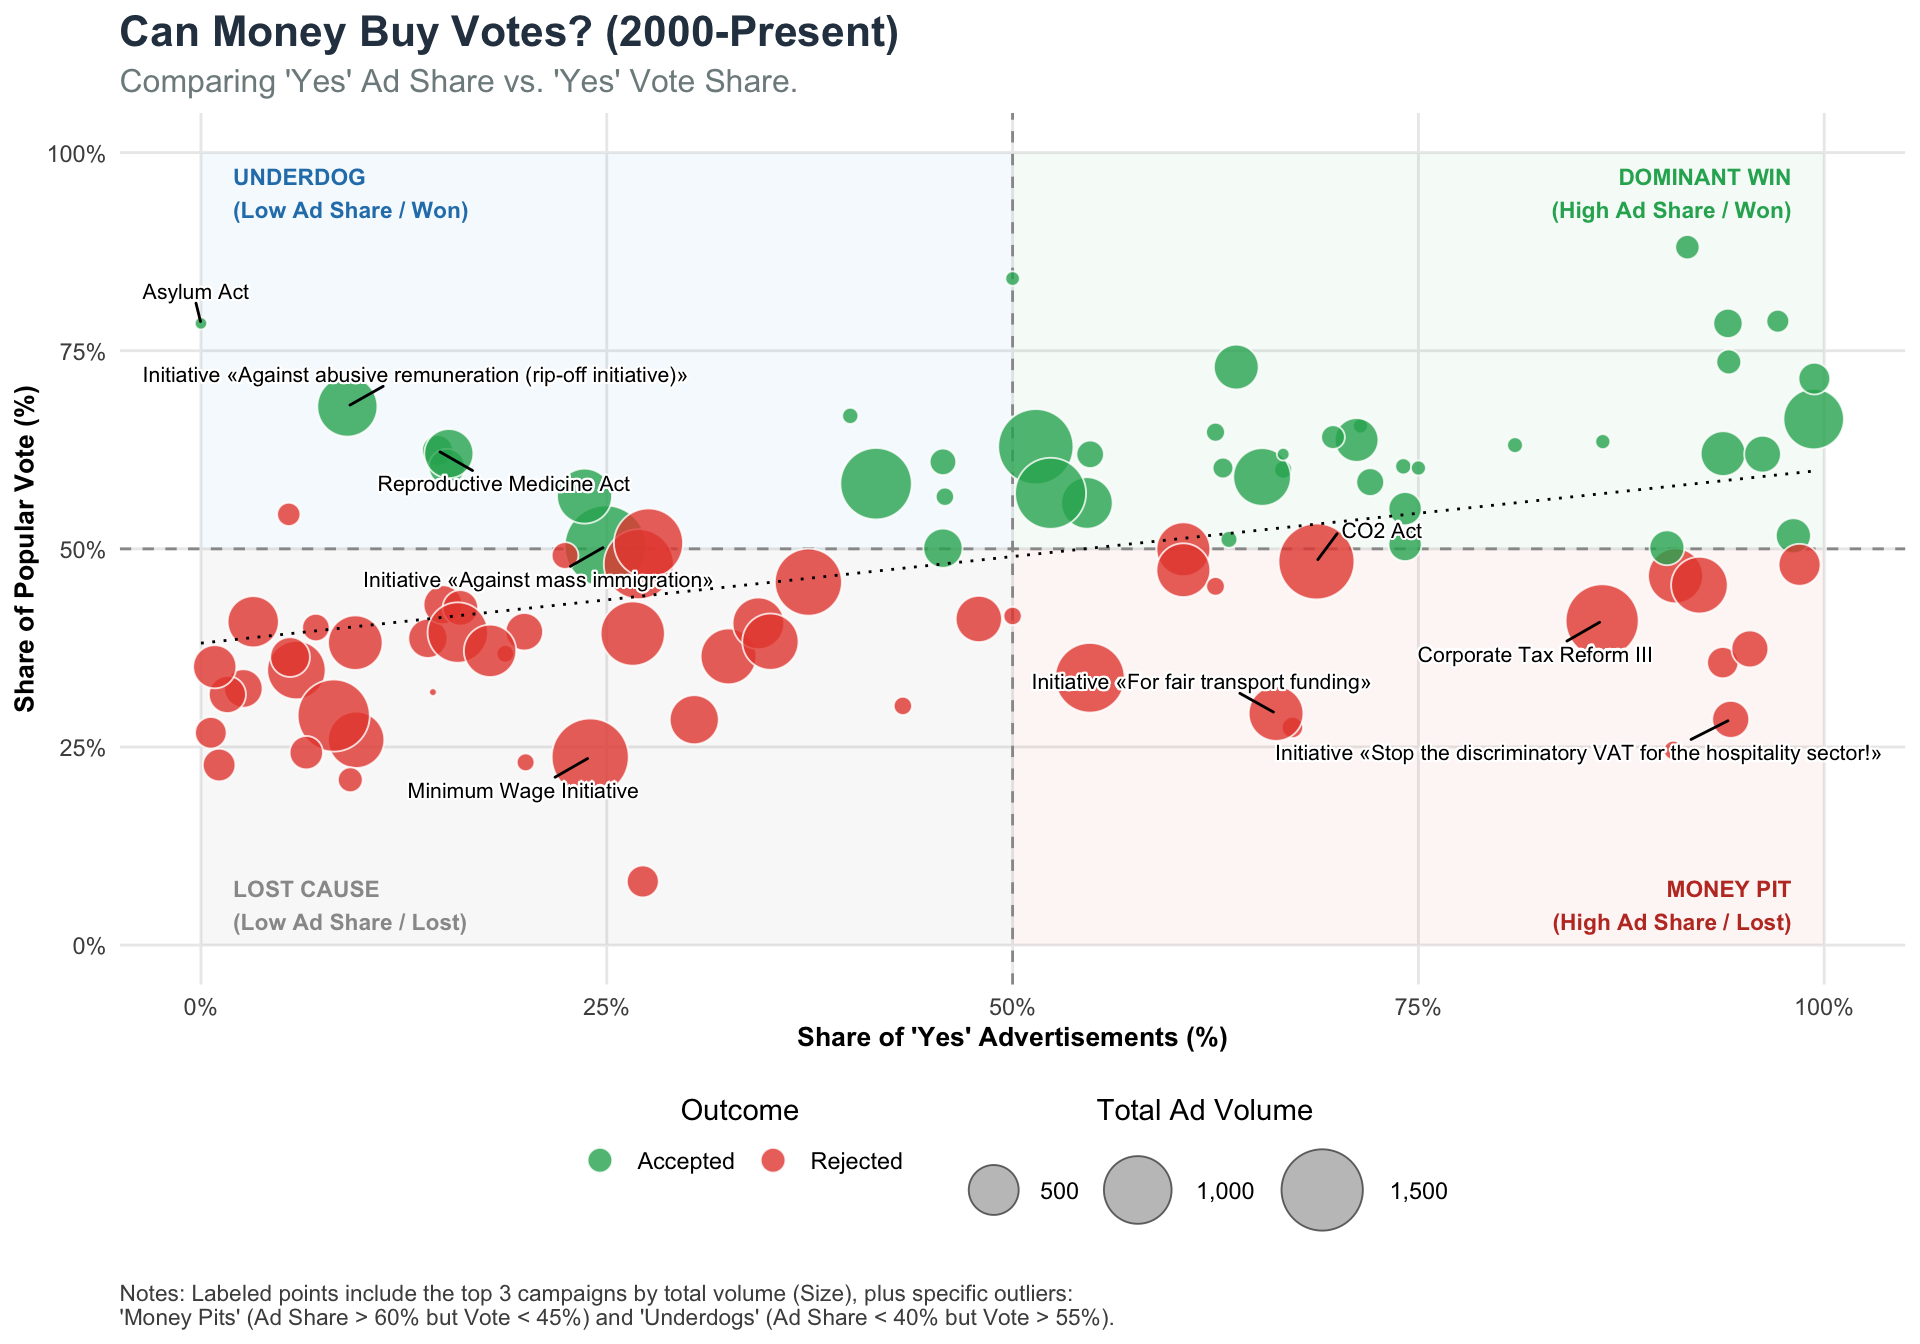
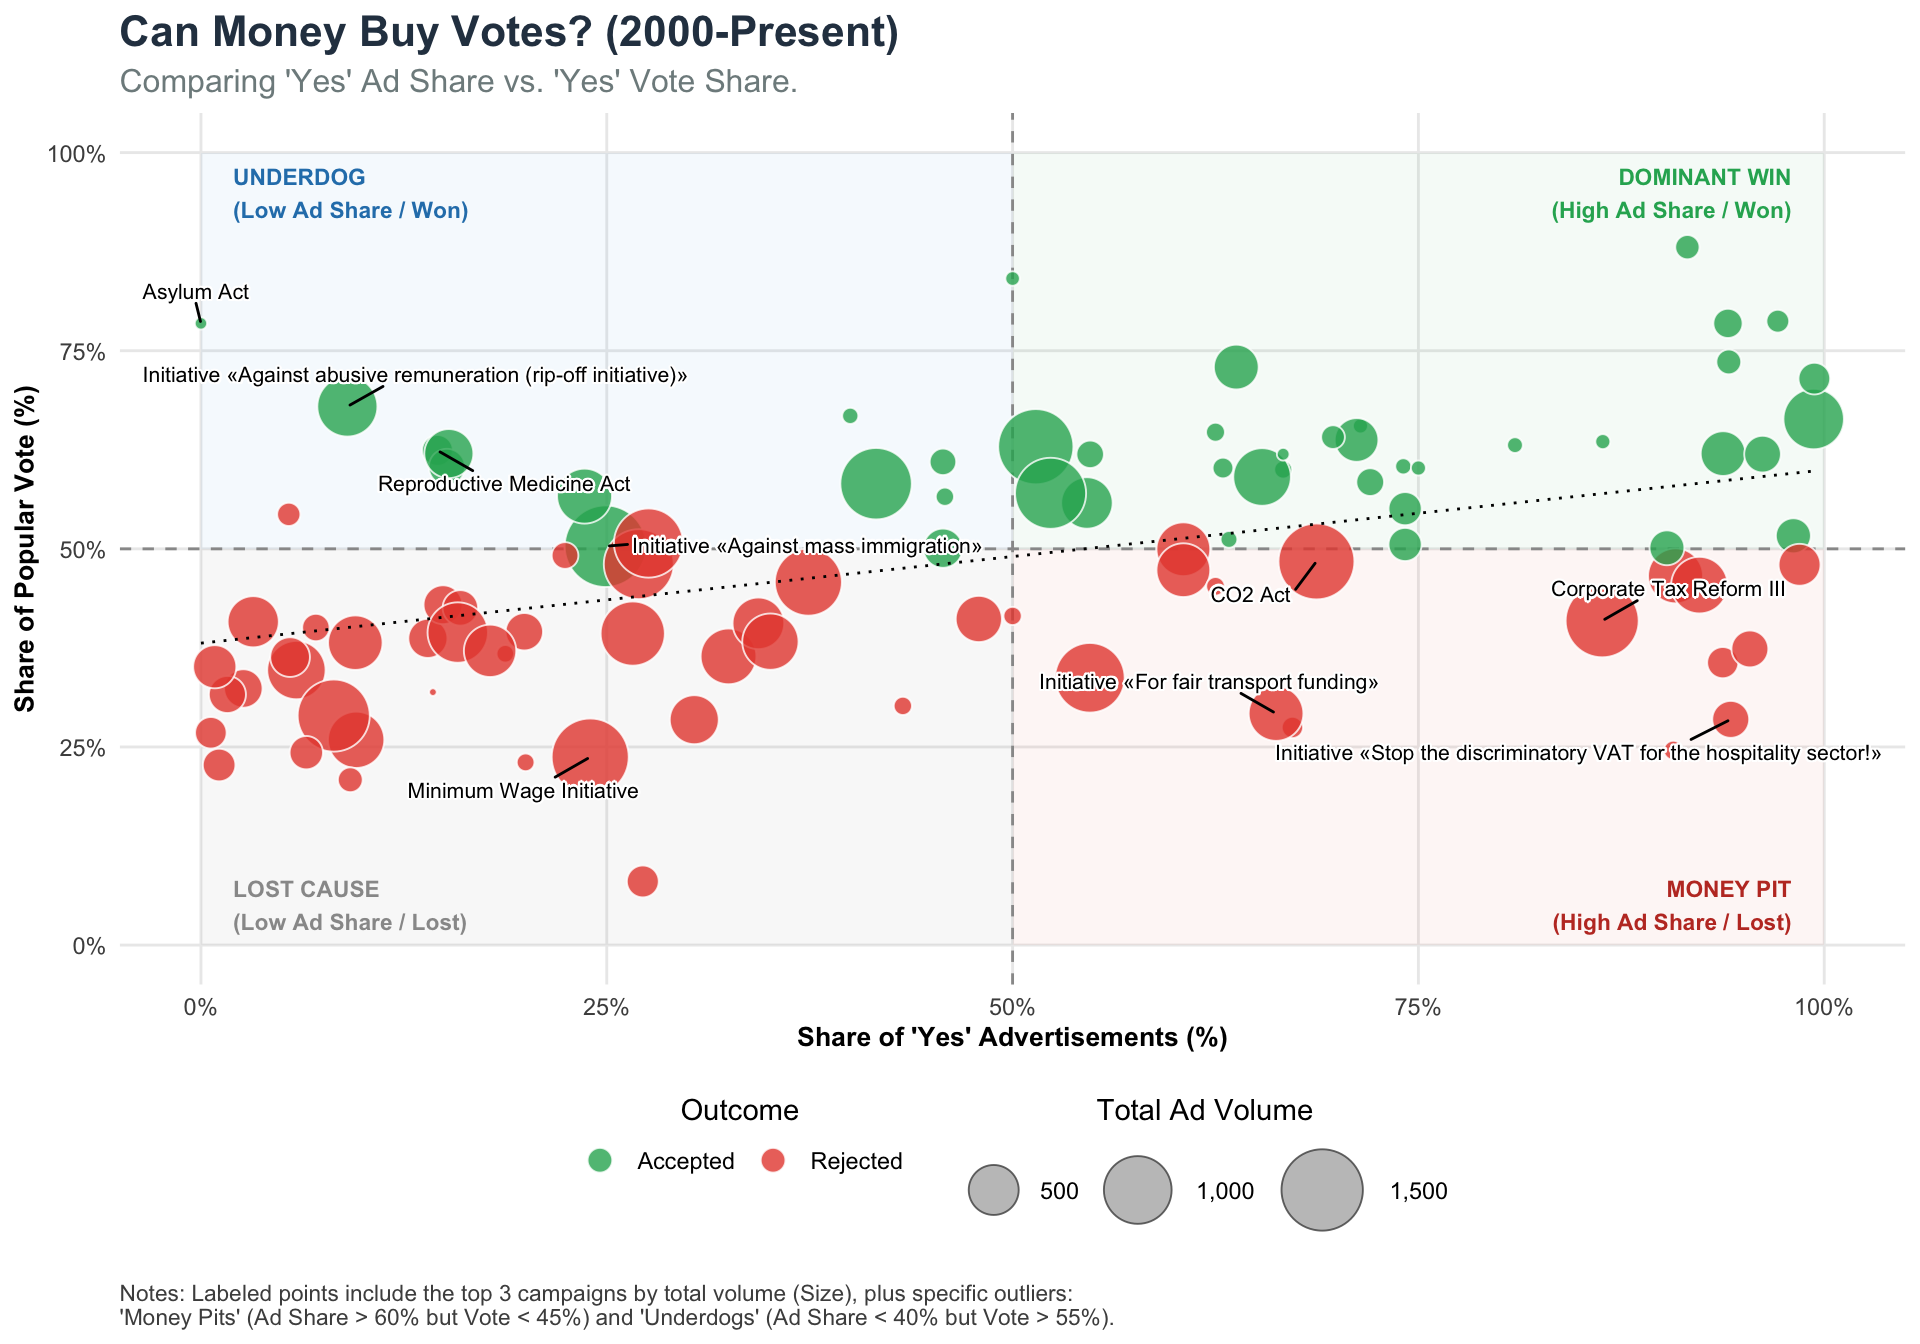
docs(conclusion): expand conclusion to include limitations of analysis and future work

diff --git a/docs/conclusion.html b/docs/conclusion.html
@@ -144,8 +144,16 @@ ul.task-list li input[type="checkbox"] {
 </nav>
 <div id="quarto-sidebar-glass" class="quarto-sidebar-collapse-item" data-bs-toggle="collapse" data-bs-target=".quarto-sidebar-collapse-item"></div>
 <!-- margin-sidebar -->
-    <div id="quarto-margin-sidebar" class="sidebar margin-sidebar zindex-bottom">
-        
+    <div id="quarto-margin-sidebar" class="sidebar margin-sidebar">
+        <nav id="TOC" role="doc-toc" class="toc-active">
+    <h2 id="toc-title">Table of contents</h2>
+   
+  <ul>
+  <li><a href="#main-takeaways" id="toc-main-takeaways" class="nav-link active" data-scroll-target="#main-takeaways"><span class="header-section-number">4.1</span> Main Takeaways</a></li>
+  <li><a href="#limitations-future-directions" id="toc-limitations-future-directions" class="nav-link" data-scroll-target="#limitations-future-directions"><span class="header-section-number">4.2</span> Limitations &amp; Future Directions</a></li>
+  <li><a href="#lessons-learned" id="toc-lessons-learned" class="nav-link" data-scroll-target="#lessons-learned"><span class="header-section-number">4.3</span> Lessons Learned</a></li>
+  </ul>
+<div class="toc-actions"><ul><li><a href="https://github.com/alex-is-busy-coding/swiss-votes-viz/edit/main/conclusion.qmd" class="toc-action"><i class="bi bi-github"></i>Edit this page</a></li><li><a href="https://github.com/alex-is-busy-coding/swiss-votes-viz/issues/new" class="toc-action"><i class="bi empty"></i>Report an issue</a></li></ul></div></nav>
     </div>
 <!-- main -->
 <main class="content" id="quarto-document-content">
@@ -170,15 +178,25 @@ ul.task-list li input[type="checkbox"] {
 
 
 <p>This analysis of over 177 years of federal voting data reveals a political system that is far more dynamic and complex than its reputation for stability suggests. Swiss direct democracy has evolved from a 19th-century tool for basic state-building into a high-speed engine of modern “life-management,” regulating everything from pension ages to fighter jet procurement.</p>
+<section id="main-takeaways" class="level2" data-number="4.1">
+<h2 data-number="4.1" class="anchored" data-anchor-id="main-takeaways"><span class="header-section-number">4.1</span> Main Takeaways</h2>
 <p>Three fundamental dynamics define the modern Swiss political landscape:</p>
 <ol type="1">
-<li><p><strong>The Sovereignty of the Voter:</strong> Our analysis challenges several cynical assumptions about democracy. The data shows that financial dominance does not guarantee electoral success (“Money Pits”), nor does media endorsement ensure public support (“The Populist Surprise”). When issues touch on deep moral convictions (like security) or direct financial costs (like the <em>CO2 Act</em>), voters frequently overrule the unified advice of Parliament and the press. The electorate is not passive. It acts as a powerful, selective “Emergency Brake” on the government.</p></li>
+<li><p><strong>The Sovereignty of the Voter:</strong> Our analysis challenges several cynical assumptions about democracy. The data shows that financial dominance does not guarantee electoral success, nor does media endorsement ensure public support. When issues touch on deep moral convictions (like security) or direct financial costs (like the <em>CO2 Act</em>), voters frequently overrule the unified advice of Parliament and the press. The electorate is not passive. It acts as a powerful, selective “Emergency Brake” on the government.</p></li>
 <li><p><strong>The Asymmetry of Power:</strong> The “Legislative Funnel” reveals that the system favors stability over disruption. The Popular Initiative, despite being the most visible instrument, functions primarily as an agenda-setting tool. It forces debates but rarely survives the ballot box. Conversely, the Optional Referendum reveals the strength of the status quo. While interest groups frequently succeed in the “sprint” to trigger a vote, the high acceptance rate of challenged laws confirms that the broader electorate usually aligns with Parliament. The voters possess the power to veto, but they exercise it with extreme caution.</p></li>
 <li><p><strong>The Fracturing Consensus:</strong> Geographically, the data confirms that the <em>Röstigraben</em> is a structural reality, not a myth. The “Duty vs.&nbsp;Right” participation gap and the distinct PCA clusters show two linguistically defined political cultures living side-by-side. However, a new fracture is emerging: the Urban-Rural divide. As cities like Zurich and Basel drift politically leftward away from their rural German-speaking neighbors, the “Double Majority” requirement acts as a critical federalist safety valve, preventing the populous urban centers from dominating the historically rural minority.</p></li>
 </ol>
-<p>Ultimately, the data portrays Switzerland not as a static nation, but as a democracy in acceleration. As the agenda densifies and the issues become more complex, the demands on the citizen continue to grow, testing the limits of a system built on the premise that the voter is always right.</p>
+</section>
+<section id="limitations-future-directions" class="level2" data-number="4.2">
+<h2 data-number="4.2" class="anchored" data-anchor-id="limitations-future-directions"><span class="header-section-number">4.2</span> Limitations &amp; Future Directions</h2>
+<p>However, this exploration is not without limits. As noted in the missing value analysis, the historical depth of the dataset comes at the cost of granularity. We lack campaign and media metrics for the first 150 years, restricting our analysis of “influence” strictly to the modern era. Furthermore, by focusing exclusively on federal votes, we overlook the thousands of cantonal and municipal decisions where the bulk of Swiss political life actually occurs. Future research could bridge these gaps by applying Natural Language Processing (NLP) to the digitized Bundesbüchlein pamphlets to track shifting political rhetoric over time or by diving into the cantonal and local results to map with greater precision the democratic choices of Swiss people.</p>
+</section>
+<section id="lessons-learned" class="level2" data-number="4.3">
+<h2 data-number="4.3" class="anchored" data-anchor-id="lessons-learned"><span class="header-section-number">4.3</span> Lessons Learned</h2>
+<p>The primary lesson learned from this quantitative history is that direct democracy is not a static set of rules, but an adaptive ecosystem. Ultimately, the data portrays Switzerland not as a finished product, but as a democracy in constant change. As the agenda densifies and issues become more complex, the demands on the citizen continue to grow, testing the limits of a system built on the premise that the voter is always right.</p>
 
 
+</section>
 
 </main> <!-- /main -->
 <script id="quarto-html-after-body" type="application/javascript">
@@ -598,7 +616,7 @@ ul.task-list li input[type="checkbox"] {
     </div>   
     <div class="nav-footer-center">
       &nbsp;
-    <div class="toc-actions"><ul><li><a href="https://github.com/alex-is-busy-coding/swiss-votes-viz/edit/main/conclusion.qmd" class="toc-action"><i class="bi bi-github"></i>Edit this page</a></li><li><a href="https://github.com/alex-is-busy-coding/swiss-votes-viz/issues/new" class="toc-action"><i class="bi empty"></i>Report an issue</a></li></ul></div></div>
+    <div class="toc-actions d-sm-block d-md-none"><ul><li><a href="https://github.com/alex-is-busy-coding/swiss-votes-viz/edit/main/conclusion.qmd" class="toc-action"><i class="bi bi-github"></i>Edit this page</a></li><li><a href="https://github.com/alex-is-busy-coding/swiss-votes-viz/issues/new" class="toc-action"><i class="bi empty"></i>Report an issue</a></li></ul></div></div>
     <div class="nav-footer-right">
 <p>This book was built with <a href="https://quarto.org/">Quarto</a>.</p>
 </div>
